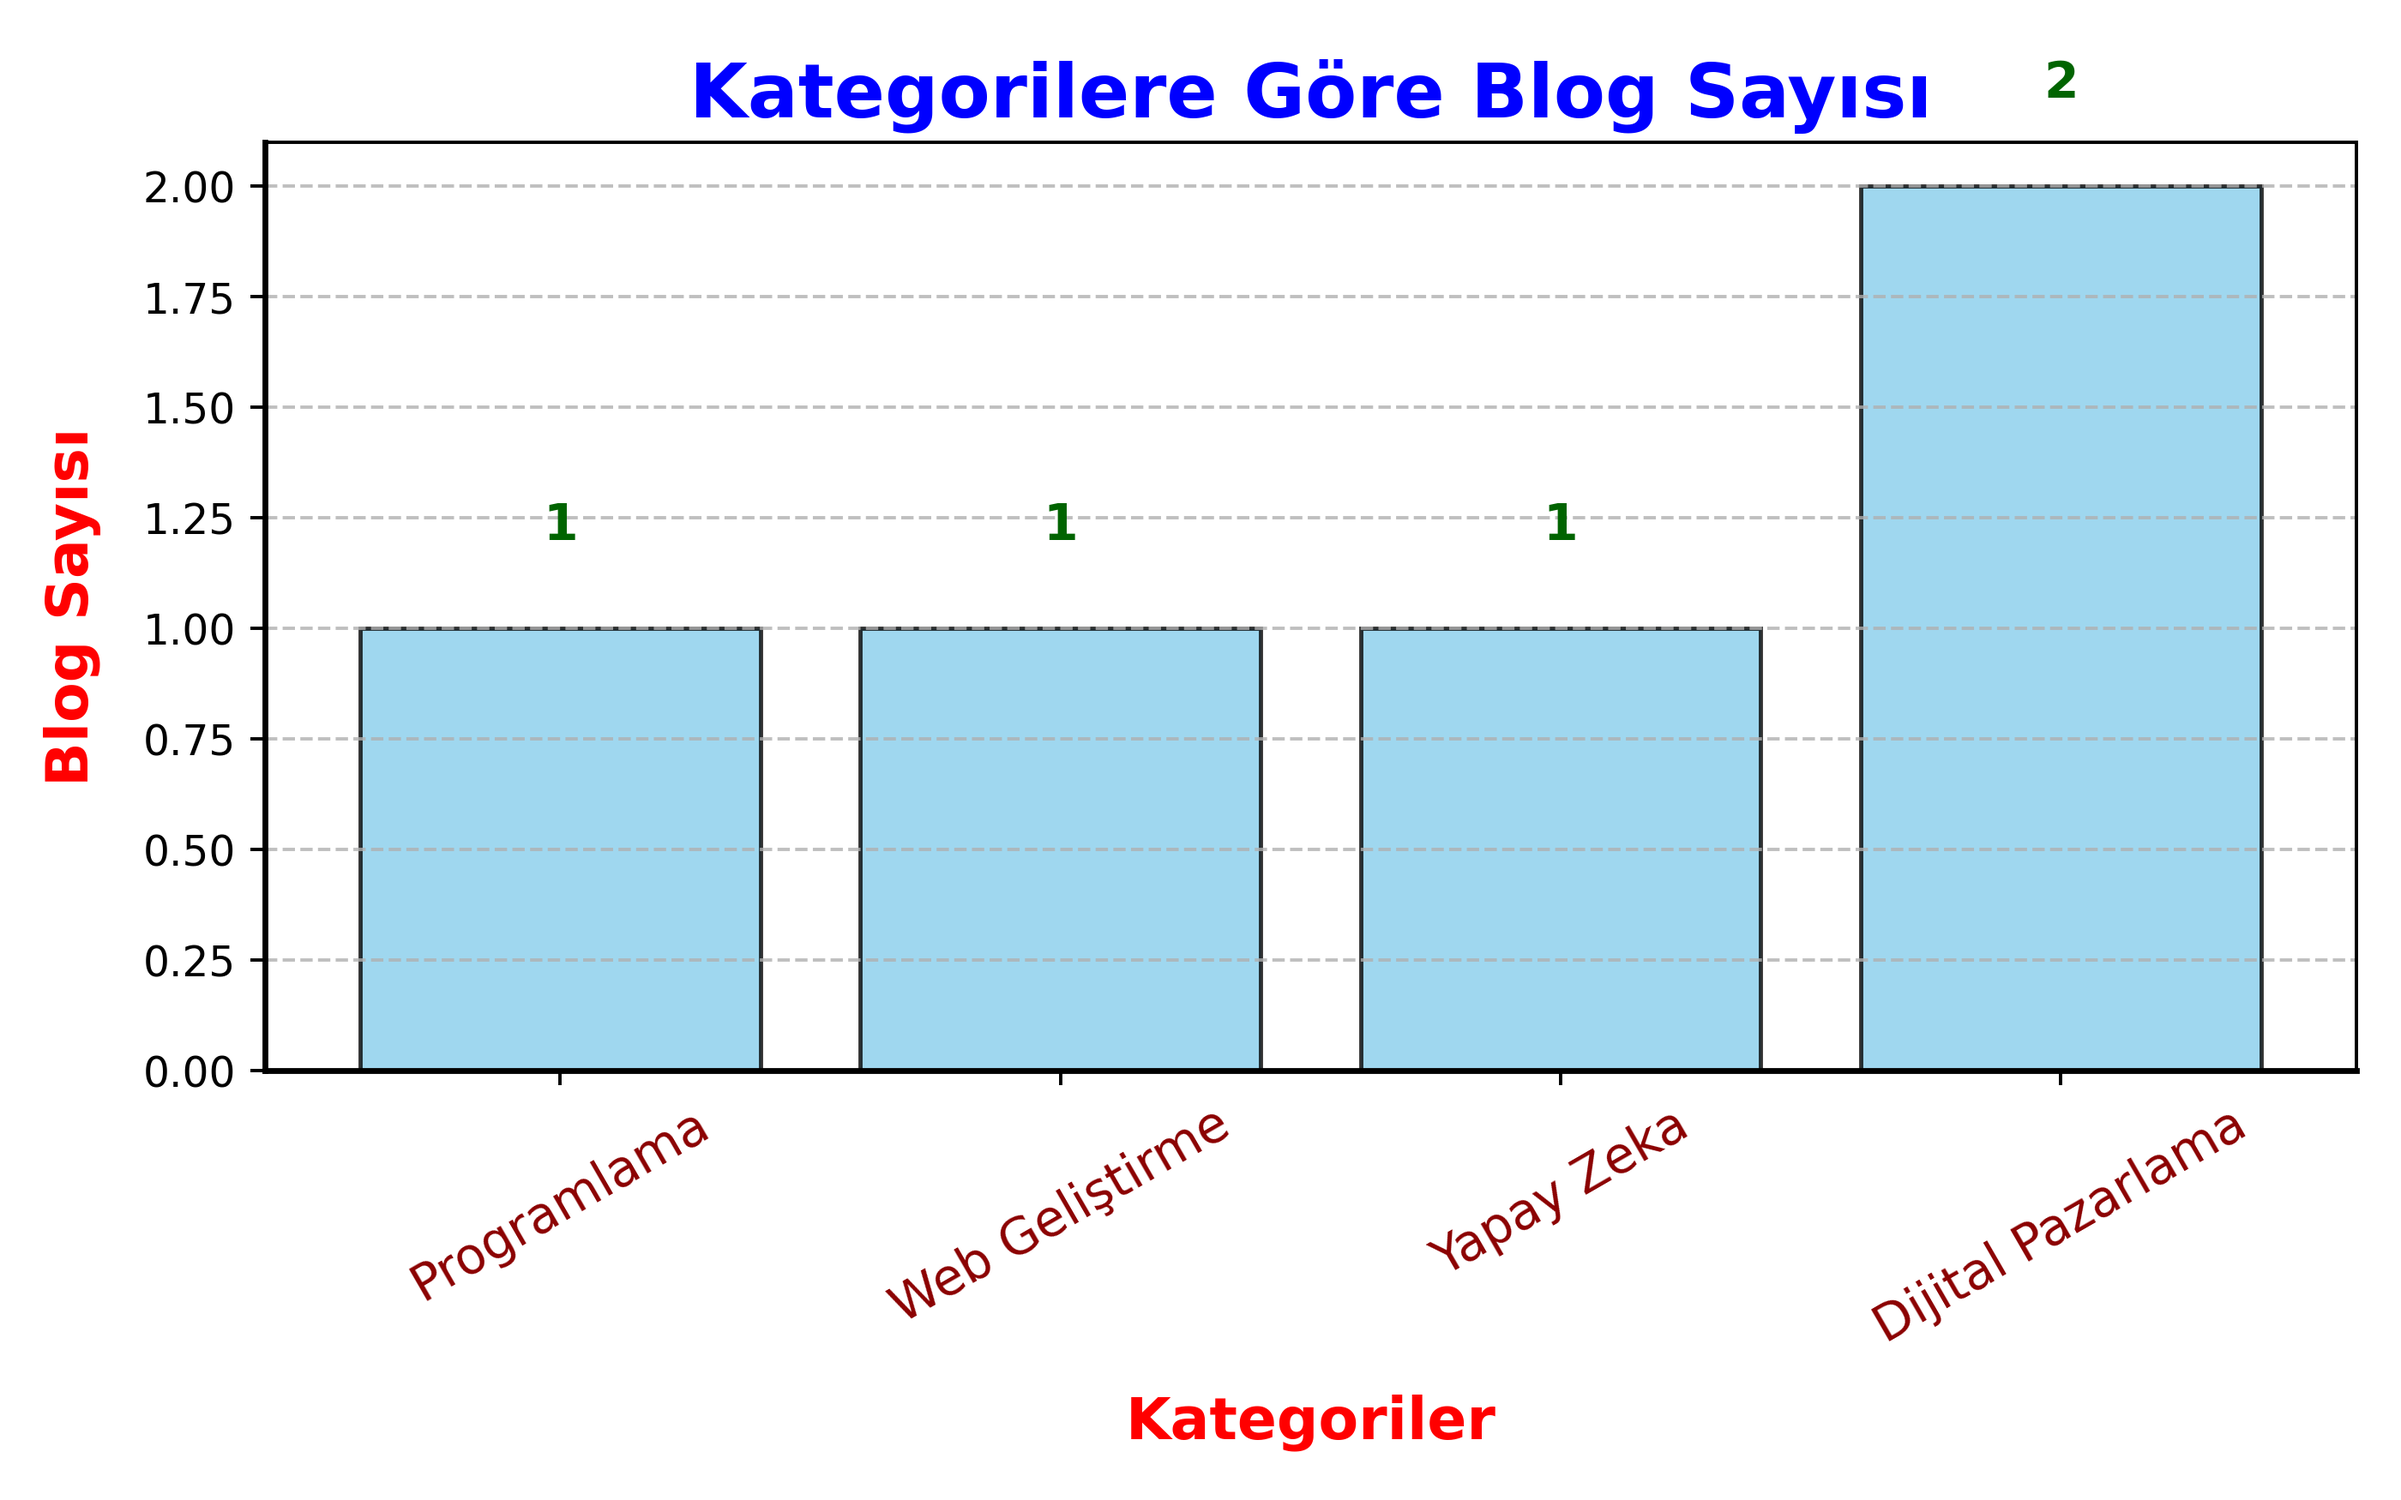
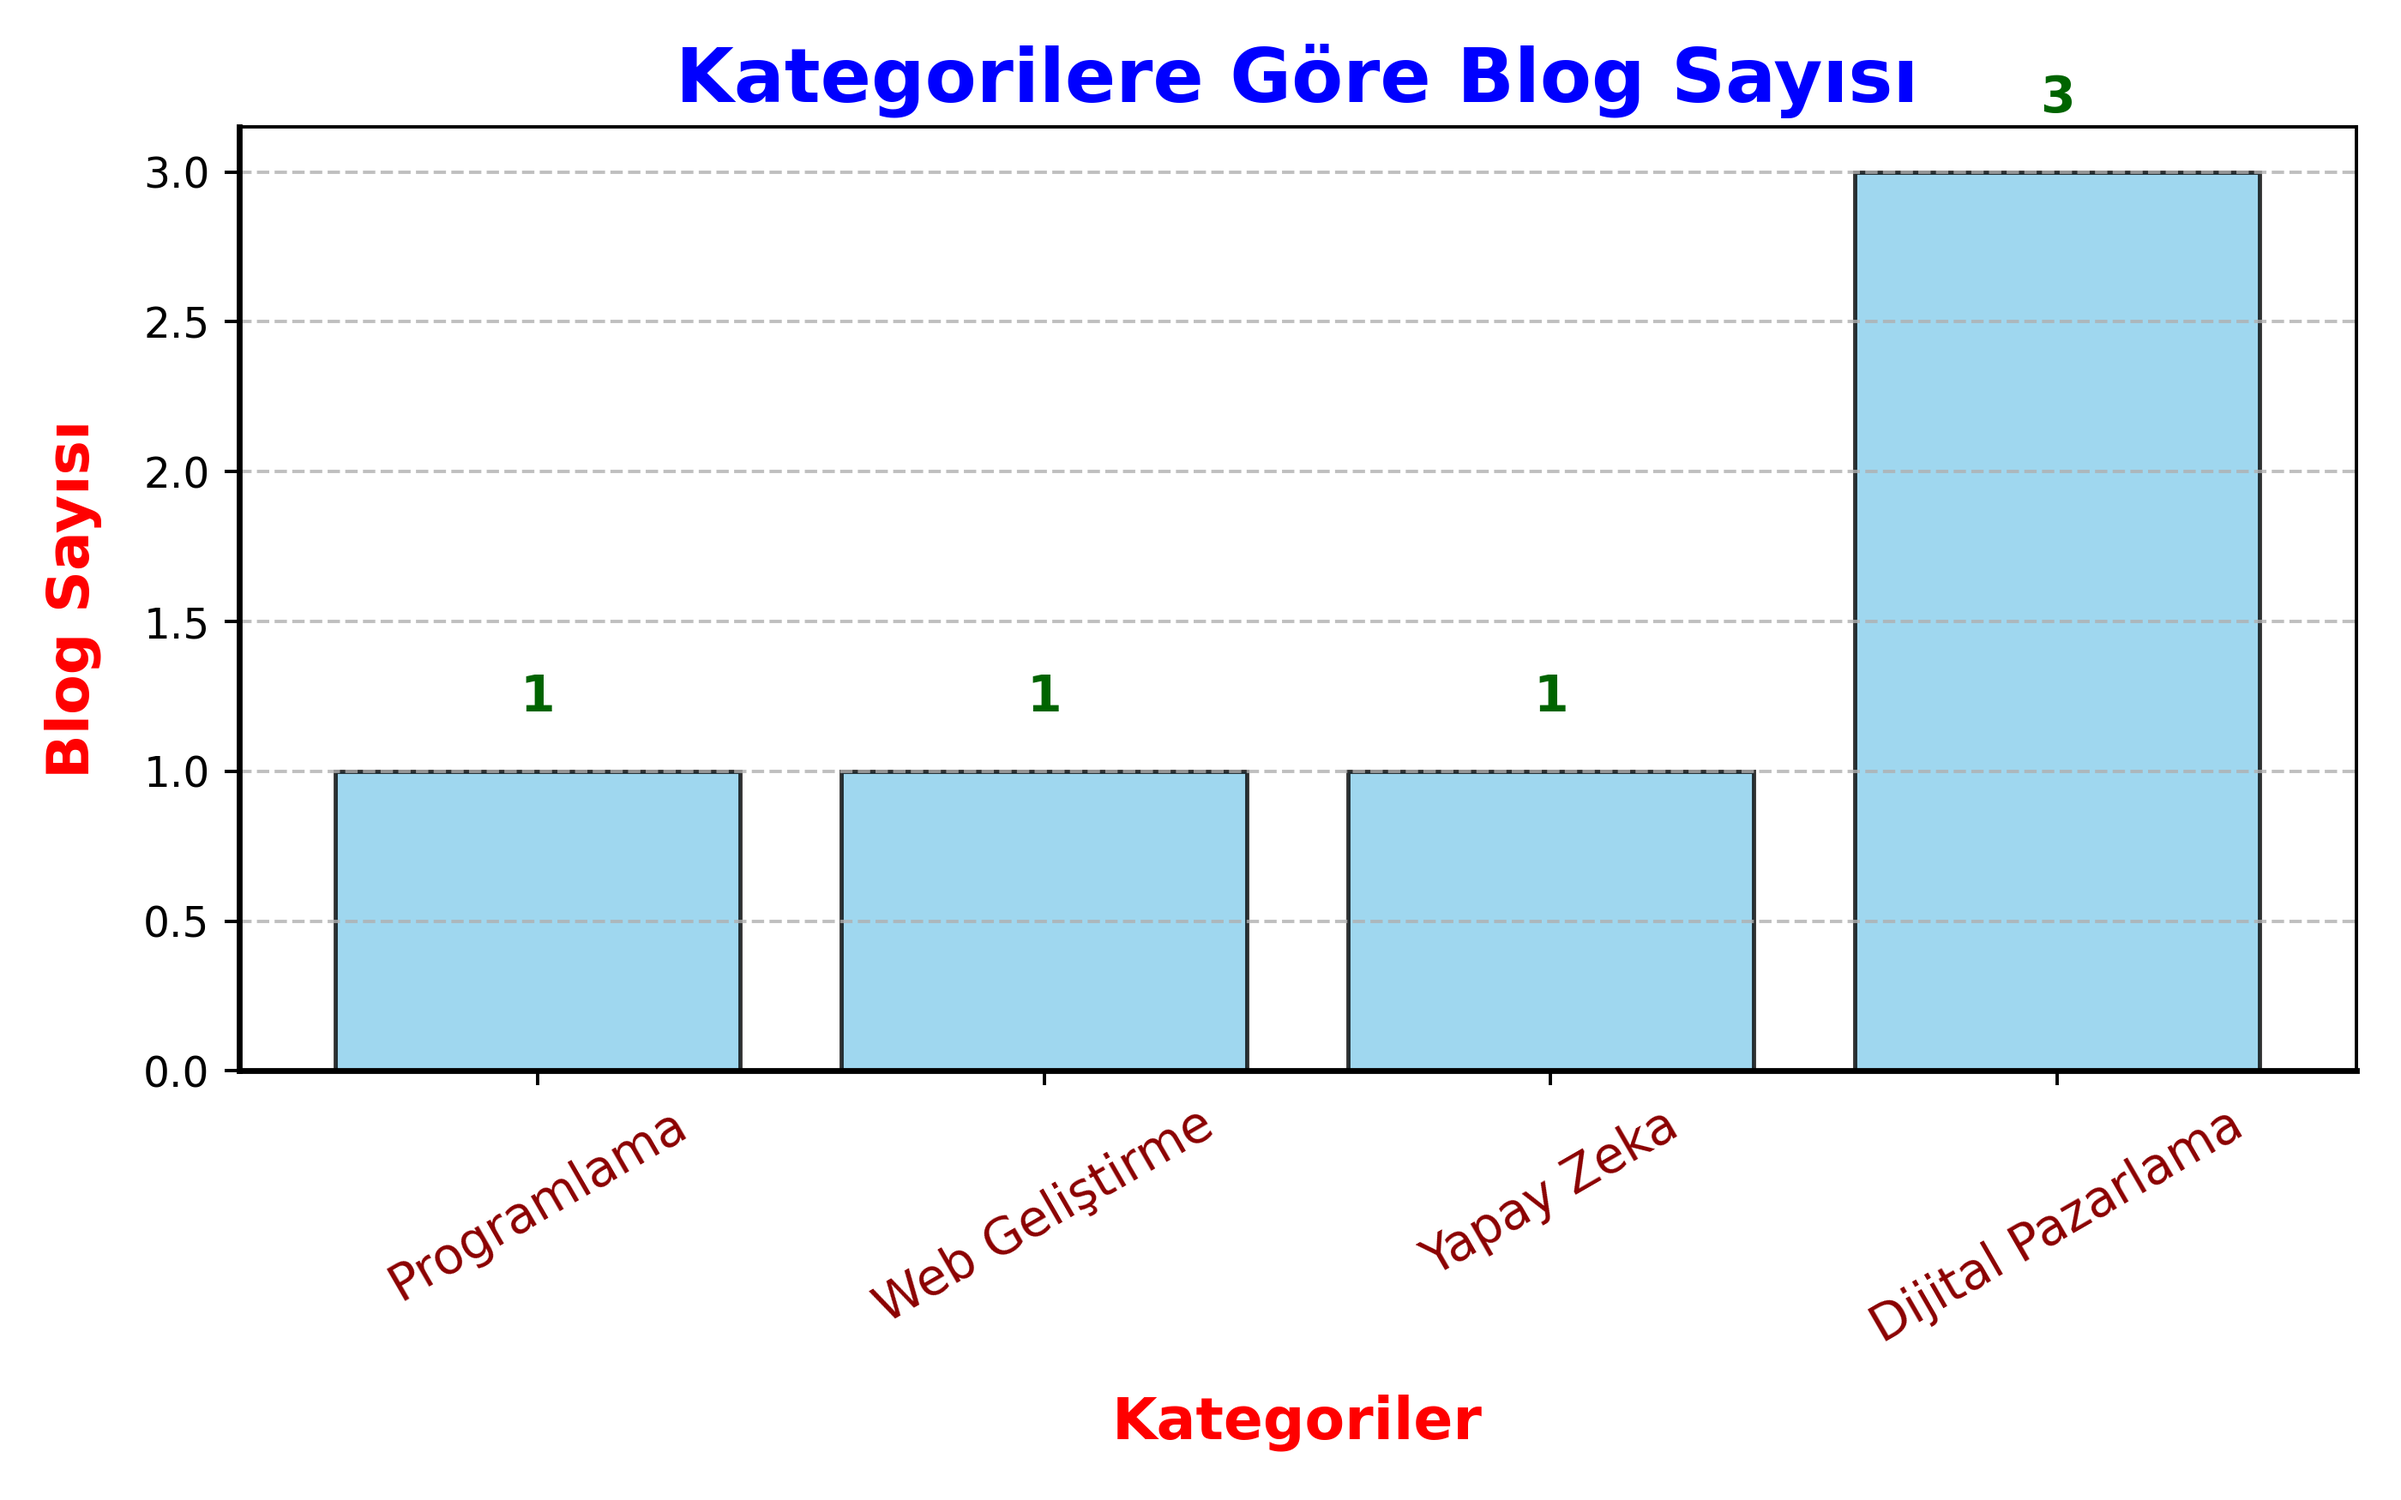
kategorilere göre blog sayısı

diff --git a/python_examples/_example_01_blog.py b/python_examples/_example_01_blog.py
@@ -76,6 +76,20 @@ blog_icerikleri = [
             {"kullanici": "ali1234", "yorum": "SEO'yu iyi anlatmışsınız, pratik teknikler için güzel bir rehber."},
         ],
     },
+{
+        "blog_id": 6,
+        "yazar": "zeynep456",
+        "baslik": "SEO Teknikleriyle Blog Trafiğini Artırma-3",
+        "icerik": "SEO, web sitenizin arama motorlarında üst sıralarda yer almasını sağlar. Bu yazı, etkili SEO tekniklerini içerir.",
+        "kategori": "Dijital Pazarlama",
+        "goruntulenme": 30000,
+        "yorumlar": [
+            {"kullanici": "mehmet789", "yorum": "Çok işime yaradı, teşekkürler!"},
+            {"kullanici": "ali123", "yorum": "SEO'yu-1 iyi anlatmışsınız, pratik teknikler için güzel bir rehber."},
+            {"kullanici": "aliklm", "yorum": "SEO'yu-2 iyi anlatmışsınız, pratik teknikler için güzel bir rehber."},
+            {"kullanici": "alixyz", "yorum": "SEO'yu-3 iyi anlatmışsınız, pratik teknikler için güzel bir rehber."},
+        ],
+    },
 ]
 
 """
@@ -119,6 +133,7 @@ def kategorilere_gore_blog_sayisi_grafik(blog_icerikleri):
     for kategori, sayi in kategori_sayilari.items():
         print(f"{kategori}: {sayi} adet")
 
+    ### GRAFIK CIZ ########################################################
     # Verileri Hazırlama
     # key: kategorilerin isimlerini versin
     # value: Blog sayıları
@@ -174,7 +189,6 @@ def kategorilere_gore_blog_sayisi_grafik(blog_icerikleri):
 
     # Grafiği Ekranda Göster
     plt.show()
-
 
 # Fonksiyonu çağırmak ve Grafiği çizdirmek
 kategorilere_gore_blog_sayisi_grafik(blog_icerikleri)
